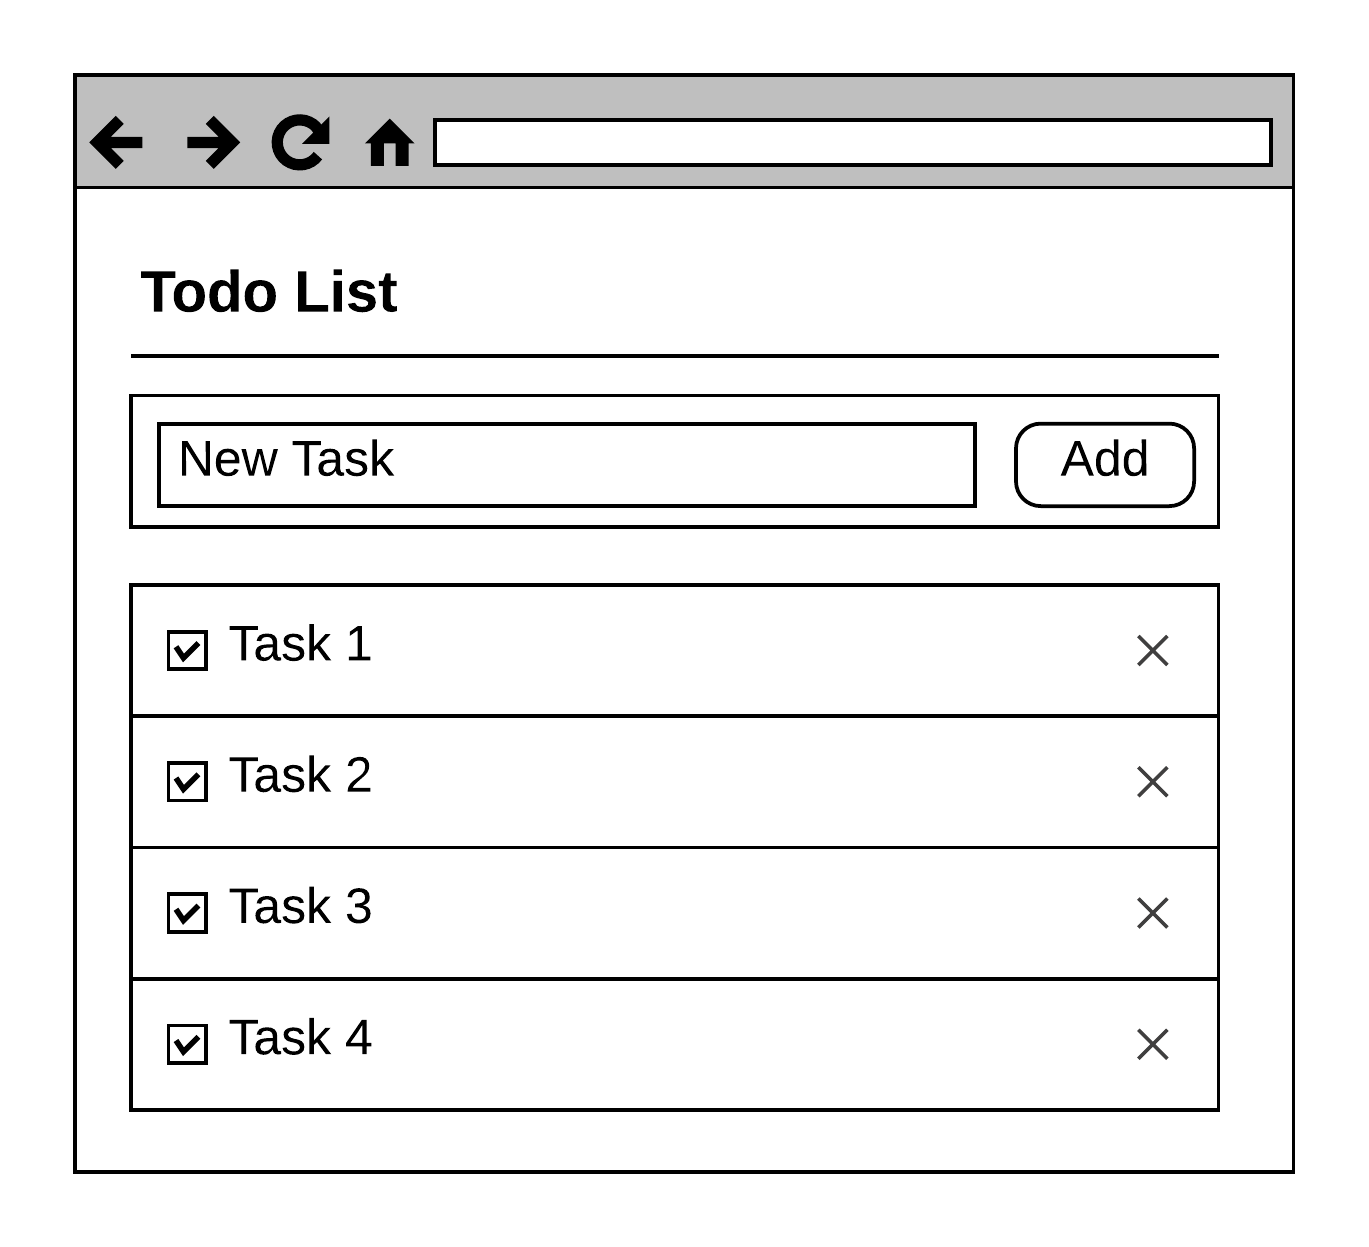
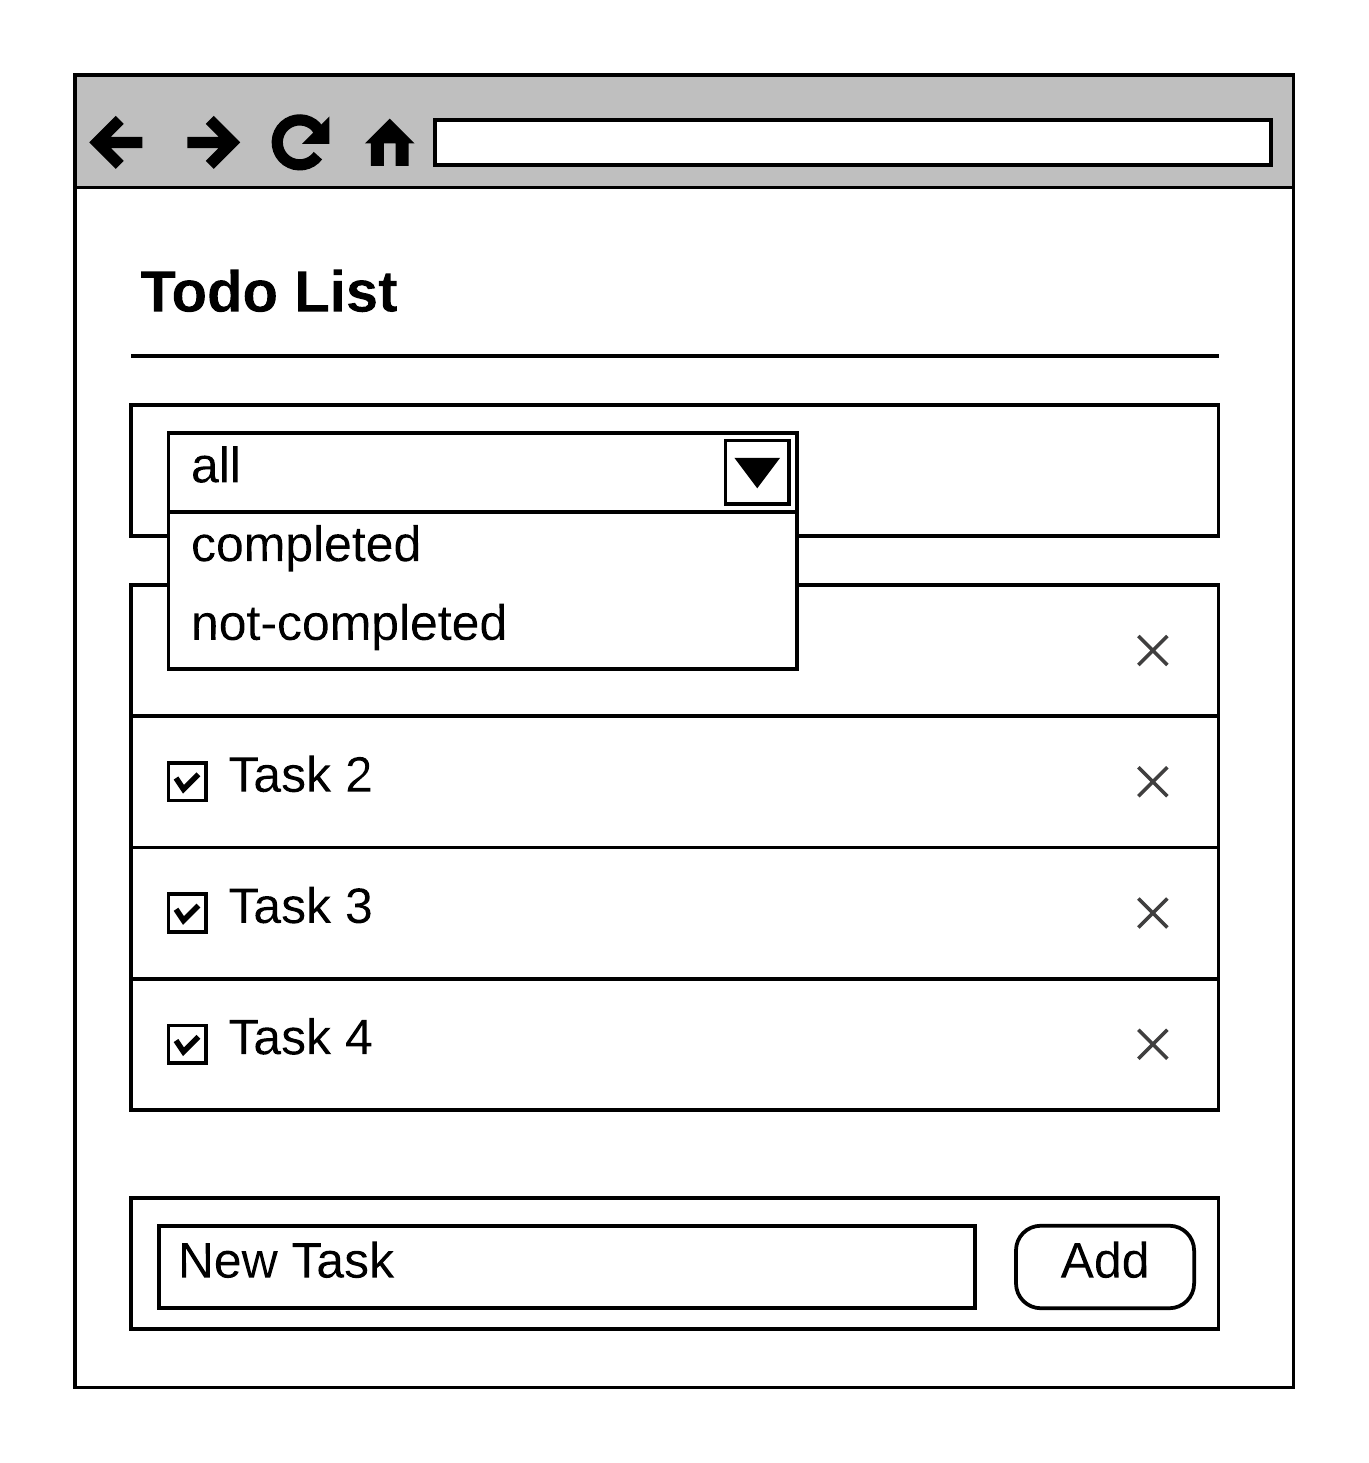
[dsch] 06-react/redux added advanced task

Changed region(s): [[0.0614, 0.6095, 0.9204, 0.9447], [0.092, 0.1828, 0.8897, 0.579], [0.0307, 0.0305, 0.9511, 0.1524]]

diff --git a/React-Redux/06-redux-selectors.md b/React-Redux/06-redux-selectors.md
@@ -2,7 +2,8 @@
 
 Необходимо доработать приложние "Список дел", добавив следующую функциональность:
 
-1. Добавление Задачи в список
+1. Добавление Задачи в список (при добавлении задачи статус завершенности берется
+   из фильтра)
 2. Удаление Задачи из списка
 
 При решении задачи использовать репозиторий: https://github.com/pdffiller/js-react-school-todolist
@@ -16,3 +17,9 @@
 Мокап-приложения:
 
 <img src="../assets/06-redux-todolist.png" style="width: 600px">
+
+## Дополнительное задание (+3 балла)
+
+Реализовать возможность восстановления удаленных задач:
+
+<img src="../assets/06-redux-todolist-advnced.png" style="width: 100%">
